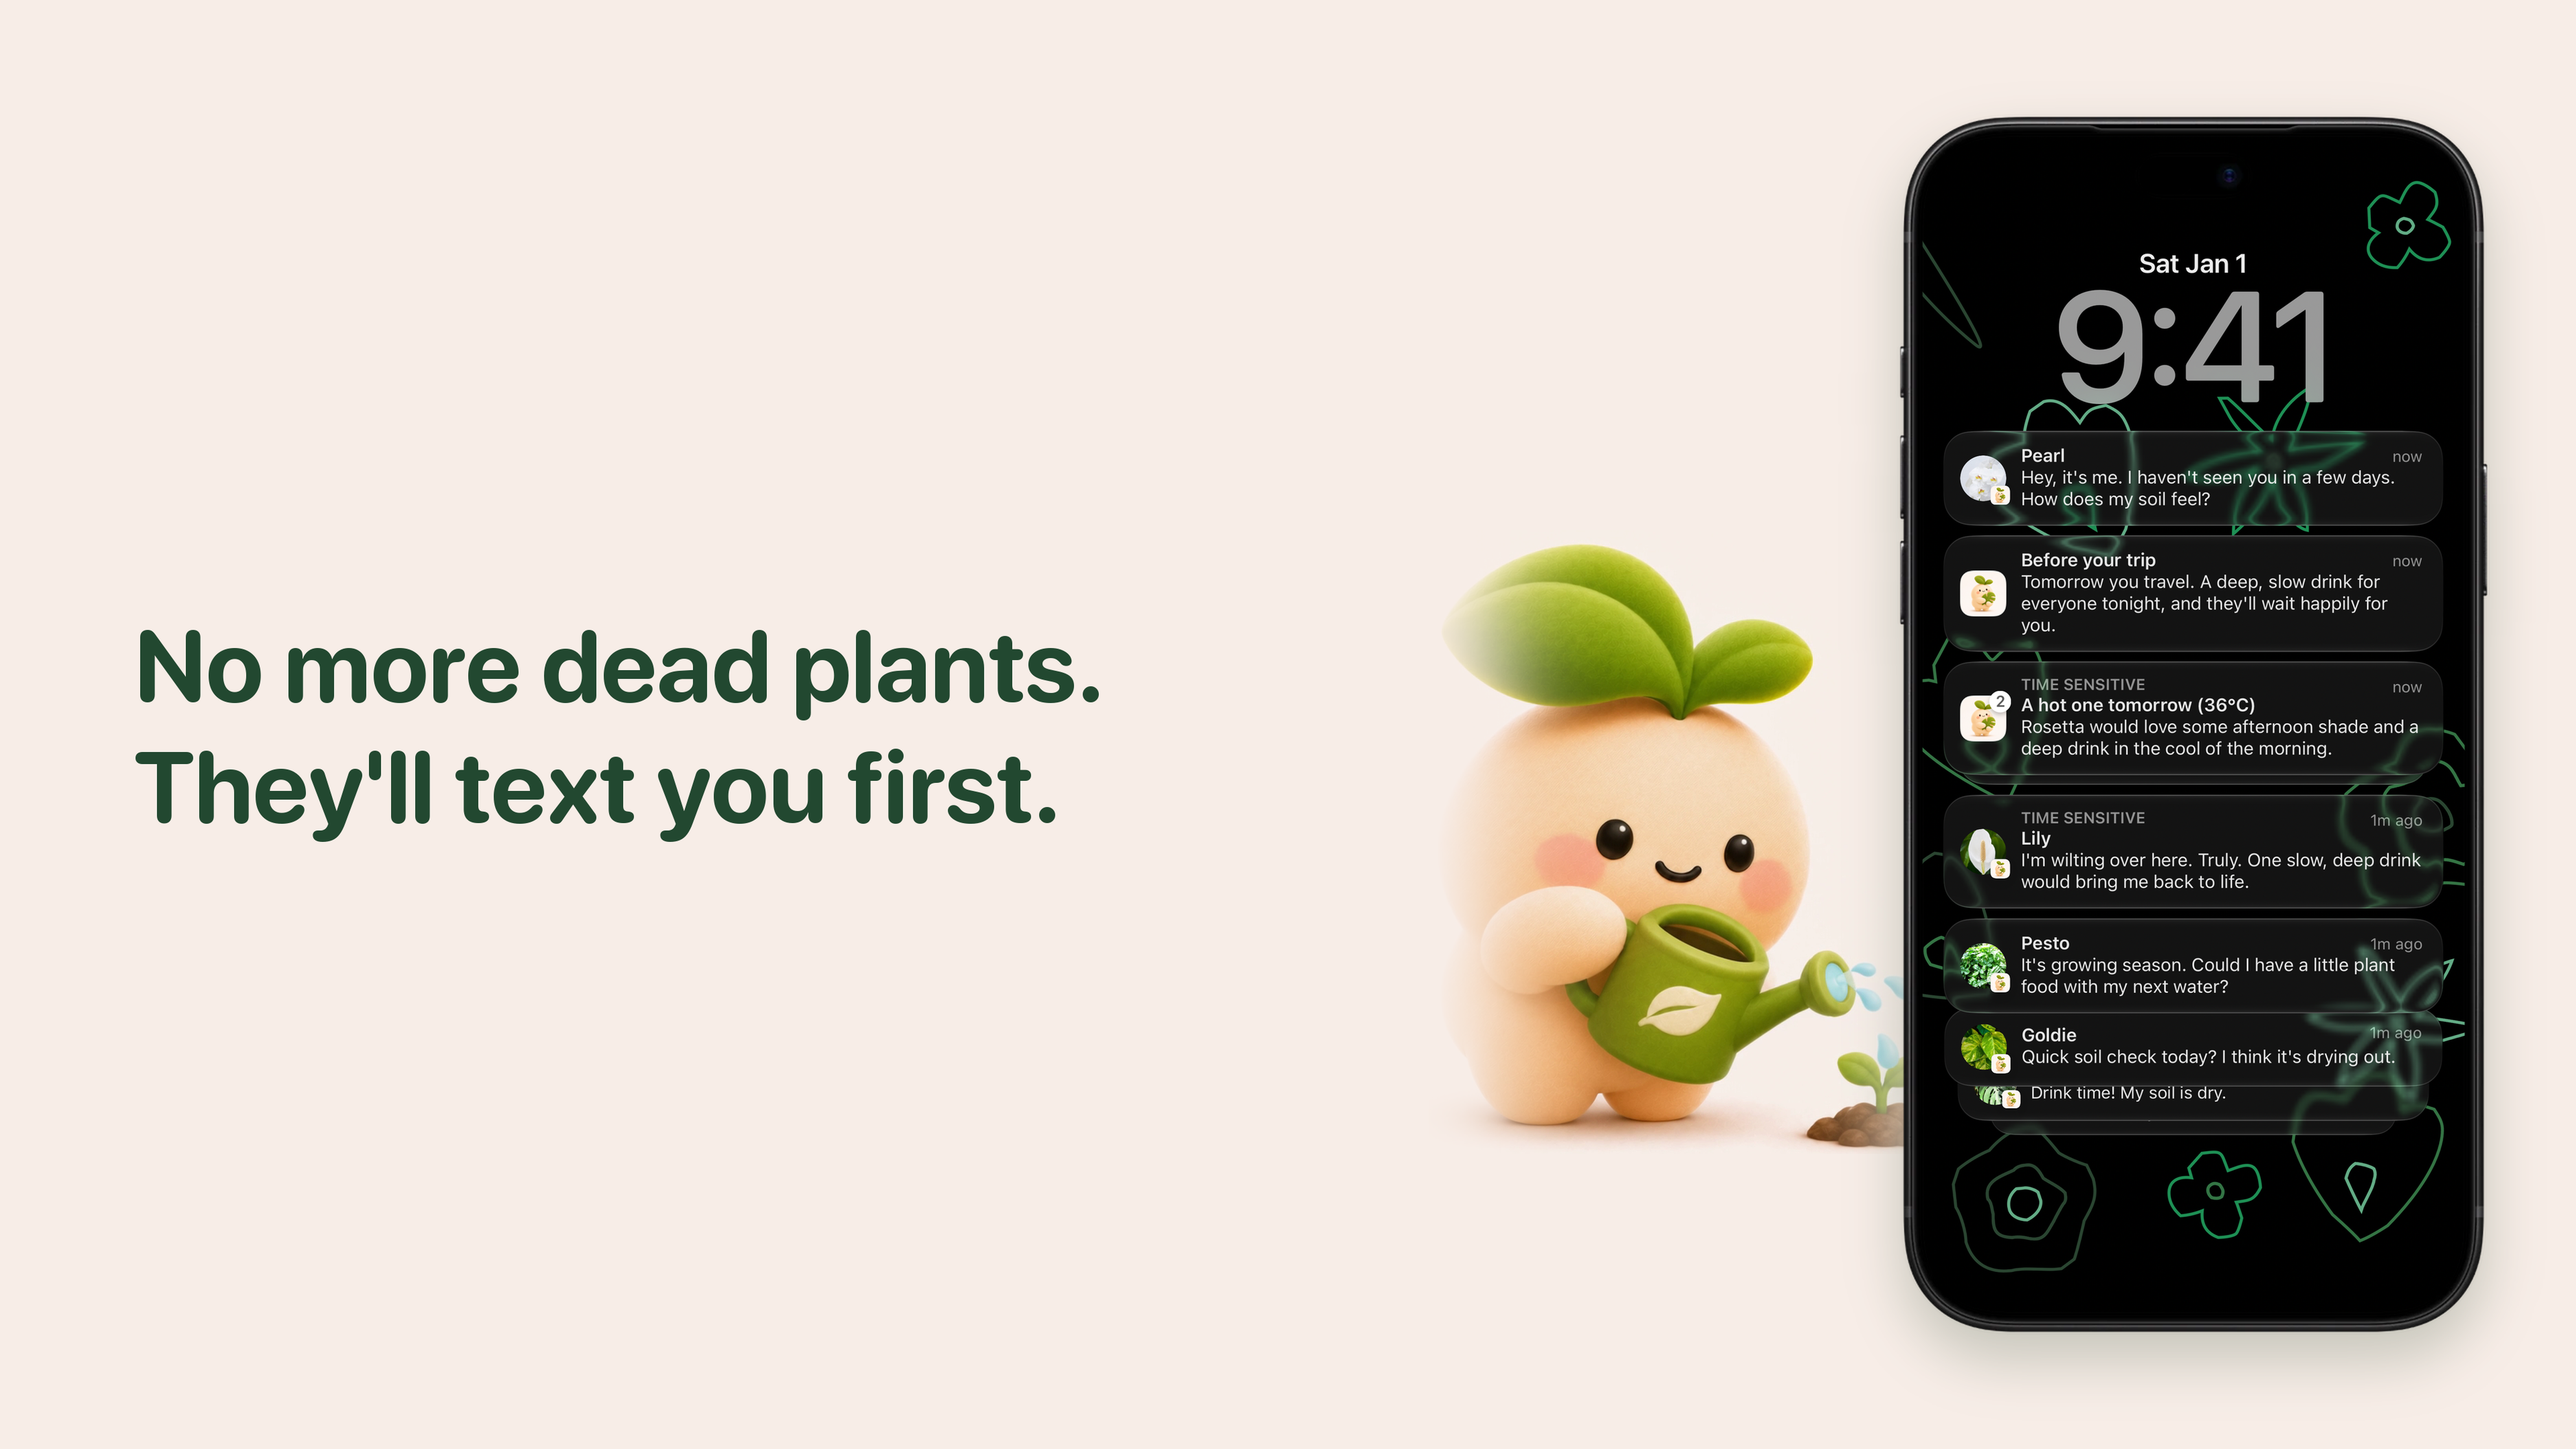
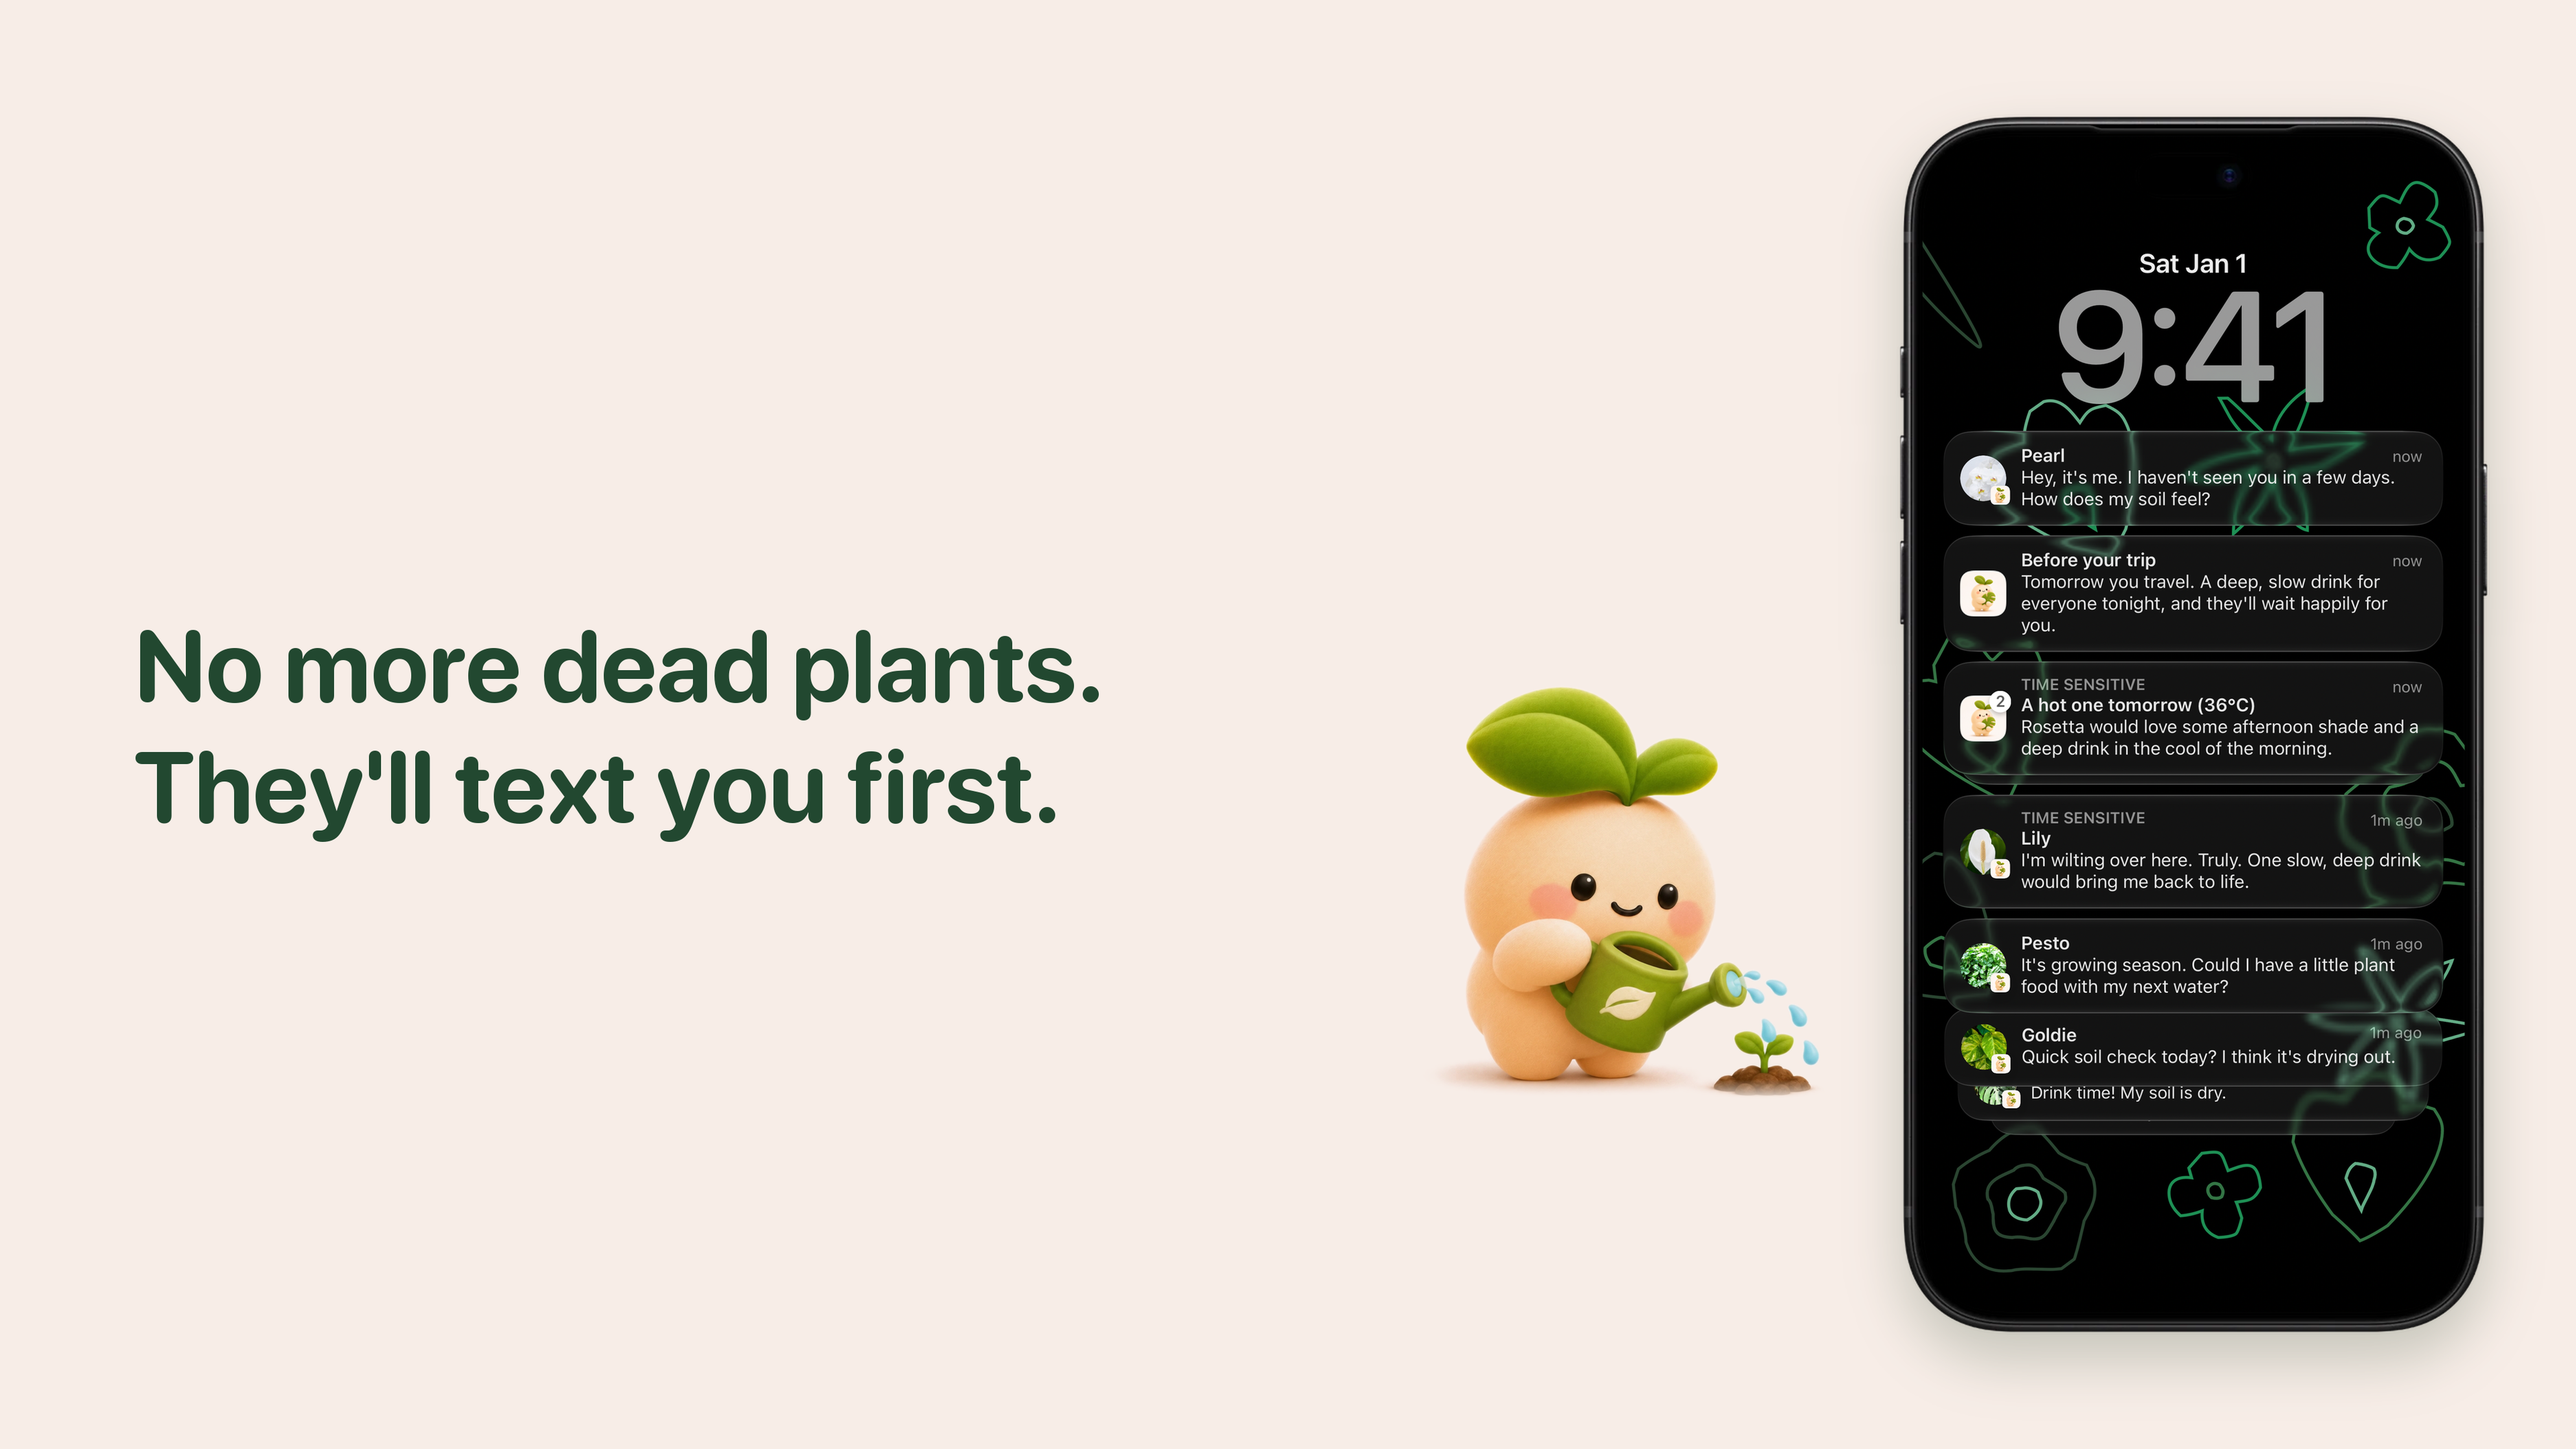
App Store search results art: clean Erty cutout (no halo/box), gap from phone

Changed region(s): [[0.5595, 0.3742, 0.746, 0.8108]]

diff --git a/Marketing/appstore-assets/make.py b/Marketing/appstore-assets/make.py
@@ -22,18 +22,32 @@ hd = Image.new('RGB', (W, H), BG); hd.paste(art, ((W - art.width) // 2, int(H * 
 hd.save(f'{OUT}/header.png', optimize=True)
 
 # Search results: headline left, Erty, phone with the real Lock Screen on the right.
-erty = HERO.crop((1300, 300, 2600, 1800))
+erty = HERO.crop((1150, 300, 2650, 1800))
 for loc, raw in (('en-US', 'en-US'), ('pt-BR', 'pt-BR'), ('pt-PT', 'pt-BR')):
     W2, H2 = 3840, 2160
     c = Image.new('RGB', (W2, H2), BG)
     d = ImageDraw.Draw(c); f = fr['font'](150)
     lines = HEAD[loc][0].split('\n')
-    while max(d.textlength(l, font=f) for l in lines) > 1900: f = fr['font'](f.size - 6)
+    while max(d.textlength(l, font=f) for l in lines) > 1820: f = fr['font'](f.size - 6)
     y = H2 // 2 - int(f.size * 1.2)
     for l in lines: d.text((200, y), l, font=f, fill=fr['INK']); y += int(f.size * 1.2)
-    e = erty.resize((int(erty.width * 0.62), int(erty.height * 0.62)), Image.LANCZOS)
-    m = Image.new('L', e.size, 0); ImageDraw.Draw(m).rectangle([120, 0, e.width - 120, e.height], fill=255)
-    c.paste(e, (2130, 1720 - e.height), m.filter(ImageFilter.GaussianBlur(70)))
+    e = erty.resize((int(erty.width * 0.42), int(erty.height * 0.42)), Image.LANCZOS)
+    # Clean alpha: key out the hero's cream background (no box, no halo), soften the edge.
+    import numpy as np
+    a = np.asarray(e).astype(int); bg = np.array(e.getpixel((5, 5)))
+    diff = np.abs(a - bg).sum(axis=2)
+    m = Image.fromarray(np.clip((diff - 10) * 8, 0, 255).astype('uint8')).filter(ImageFilter.MaxFilter(3)).filter(ImageFilter.GaussianBlur(2))
+    # Keep only Erty's own blob (drop stray bits of the hero scene at the crop border).
+    from scipy import ndimage
+    lab, n = ndimage.label(np.asarray(m) > 20)
+    if n:
+        sizes = ndimage.sum(np.ones_like(lab), lab, range(1, n + 1))
+        keep = np.isin(lab, [i + 1 for i, s_ in enumerate(sizes) if s_ == sizes.max() or (s_ > sizes.max() * 0.002 and not (lab[:, :8] == i + 1).any())])
+        keep = ndimage.binary_dilation(keep, iterations=6)
+        m = Image.fromarray((np.asarray(m) * keep).astype('uint8')).filter(ImageFilter.GaussianBlur(1))
+    ramp = np.clip(np.arange(m.width) / 60.0, 0, 1)[None, :] * np.clip((m.height - 1 - np.arange(m.height)) / 30.0, 0, 1)[:, None]
+    m = Image.fromarray((np.asarray(m) * ramp).astype('uint8'))
+    c.paste(e, (2110, 1640 - e.height), m)
     scr = Image.open(f'{R}/Assets/AppStore/screenshots/raw/{raw}/iphone69/01-notes.png')
     dev = fr['device'](scr, 900)
     top = (H2 - dev.height) // 2
